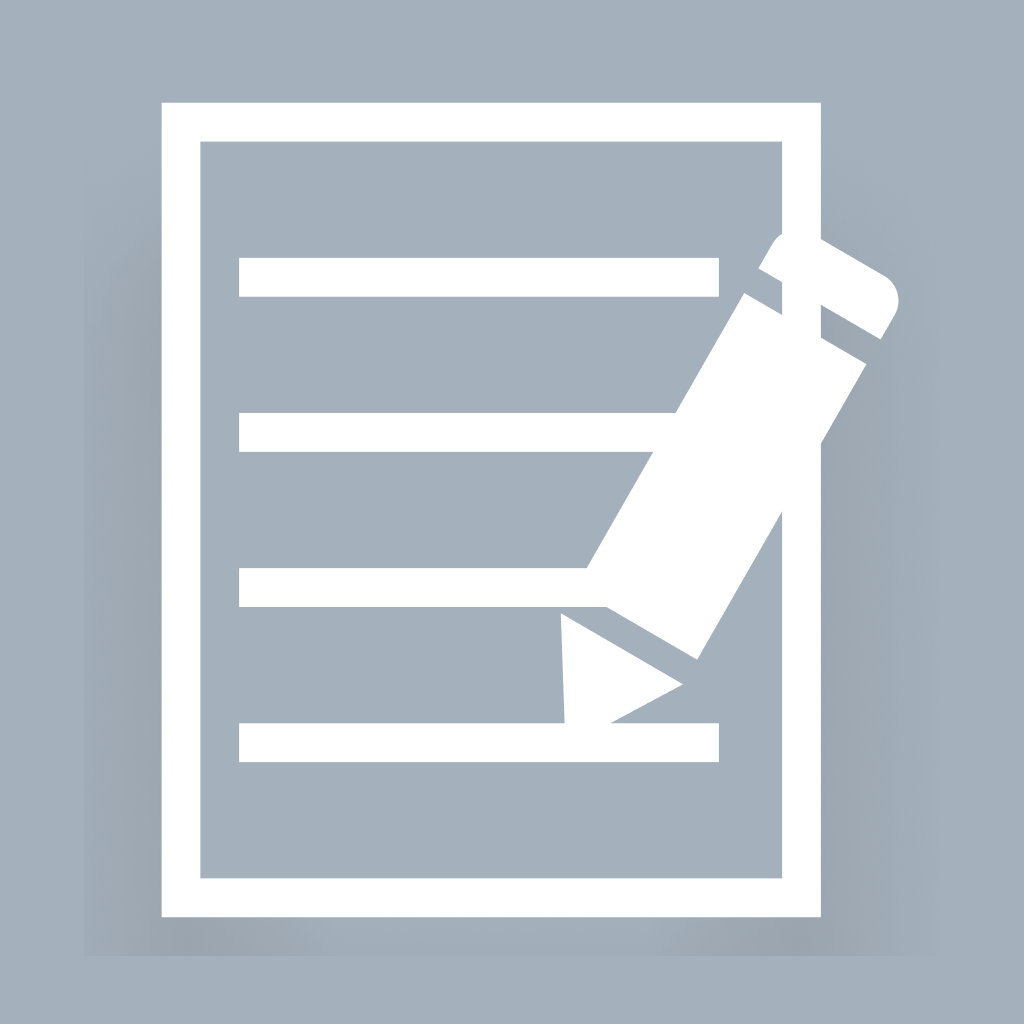
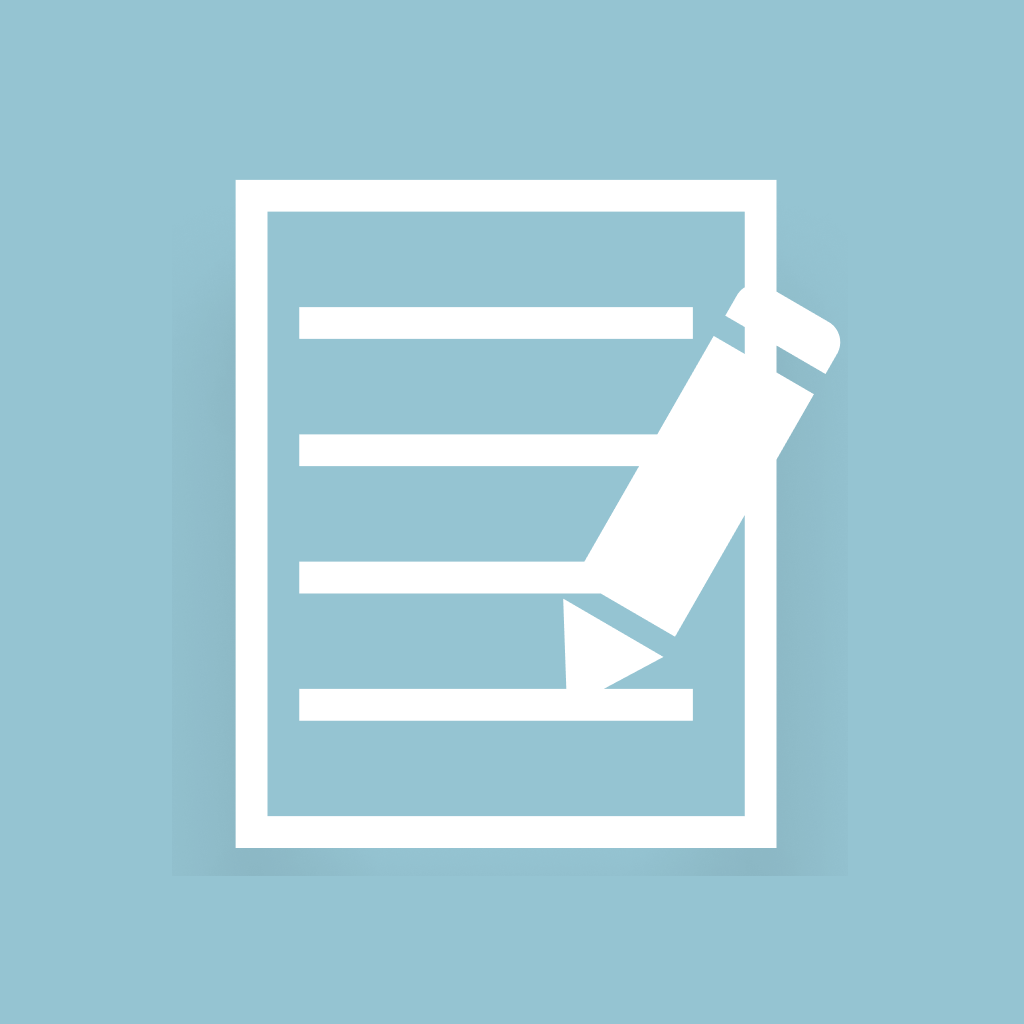
Initial Commmit

diff --git a/src/screens/MemoListScreen.jsx b/src/screens/MemoListScreen.jsx
@@ -9,6 +9,7 @@ import CircleButton from '../components/CircleButton';
 import SquareButton from '../components/SquareBotton';
 import Loading from '../components/Loading';
 import HeaderRightButton from '../components/HeaderRightButton';
+import HeaderLeftButton from '../components/HeaderLeftButton';
 
 export default function MemoListScreen(props) {
   const { navigation } = props;
@@ -44,6 +45,9 @@ export default function MemoListScreen(props) {
         navigation.setOptions({
           headerRight: () => (
             <HeaderRightButton currentUser={user} cleanupFuncs={cleanupFuncs} />
+          ),
+          headerLeft: () => (
+            <HeaderLeftButton currentUser={user} />
           ),
         });
       } else {
@@ -112,36 +116,3 @@ const emptyStyles = StyleSheet.create({
     alignSelf: 'center',
   },
 });
-
-//   // const { currentUser } = firebase.auth();
-//   const db = firebase.firestore();
-//   let unsubscribe = () => {};
-//   if (currentUser) {
-//     setLoading(true);
-//     const ref = db.collection(`users/${currentUser.uid}/memos`).orderBy('updatedAt', 'desc');
-//     // Monitor memos
-//     unsubscribe = ref.onSnapshot((snapshot) => {
-//       const userMemos = [];
-//       snapshot.forEach((doc) => {
-//         const data = doc.data();
-//         userMemos.push({
-//           id: doc.id,
-//           bodyText: data.bodyText,
-//           updatedAt: data.updatedAt.toDate(),
-//         });
-//       });
-//       setMemos(userMemos);
-//       setLoading(false);
-//     }, () => {
-//       // console.log('aaaa');
-//       // Alert.alert('Fail to load data.');
-//       setLoading(false);
-//     });
-//   }
-//   return unsubscribe;
-// }, []);
-// useEffect(() => {
-//   navigation.setOptions({
-//     headerRight: () => <LogOutButton />,
-//   });
-// }, []);

diff --git a/src/components/HeaderLeftButton.jsx b/src/components/HeaderLeftButton.jsx
@@ -1,0 +1,48 @@
+import React from 'react';
+import {
+  TouchableOpacity, Text, StyleSheet, Alert,
+} from 'react-native';
+import { shape } from 'prop-types';
+
+export default function HeaderLeftButton(props) {
+  const { currentUser } = props;
+  if (!currentUser) { return null; }
+  if (currentUser.isAnonymous) {
+    return null;
+  }
+  const firstChar = currentUser.email.slice(0, 1).toUpperCase();
+  const handlePress = () => {
+    Alert.alert('Your Account', currentUser.email, [
+      {
+        text: 'OK',
+        onPress: () => {},
+      },
+    ]);
+  };
+  return (
+    <TouchableOpacity style={styles.container} onPress={handlePress}>
+      <Text style={styles.label}>{firstChar}</Text>
+    </TouchableOpacity>
+  );
+}
+
+HeaderLeftButton.propTypes = {
+  currentUser: shape().isRequired,
+};
+
+const styles = StyleSheet.create({
+  container: {
+    backgroundColor: '#467FD3',
+    borderRadius: 16,
+    width: 32,
+    height: 32,
+    marginLeft: 15,
+    marginBottom: 2,
+    justifyContent: 'center',
+    alignItems: 'center',
+  },
+  label: {
+    fontSize: 14,
+    color: 'rgba(255, 255, 255, 0.7)',
+  },
+});

diff --git a/src/components/UserCheck.jsx b/src/components/UserCheck.jsx
@@ -1,0 +1,45 @@
+import React from 'react';
+import {
+  View, Text, StyleSheet,
+} from 'react-native';
+import { shape } from 'prop-types';
+
+export default function UserCheck(props) {
+  const { currentUser } = props;
+  if (!currentUser) { return null; }
+  if (currentUser.isAnonymous) {
+    return null;
+  }
+  return (
+    <View style={styles.container}>
+      <Text style={styles.label}>
+        {currentUser.email}
+      </Text>
+    </View>
+  );
+}
+
+UserCheck.propTypes = {
+  currentUser: shape().isRequired,
+};
+
+const styles = StyleSheet.create({
+  container: {
+    position: 'absolute',
+    width: '100%',
+    height: '100%',
+    top: 0,
+    right: 0,
+    bottom: 0,
+    left: 0,
+    justifyContent: 'center',
+    alignContent: 'center',
+    backgroundColor: 'red',
+    // backgroundColor: 'rgba(255, 255, 255, 0.5)',
+    zIndex: 100,
+  },
+  label: {
+    fontSize: 14,
+    color: '#000000',
+  },
+});

diff --git a/src/screens/LogInScreen.jsx b/src/screens/LogInScreen.jsx
@@ -19,17 +19,6 @@ export default function LogInScreen(props) {
     navigation.setOptions({
       headerRight: () => <CancelLogIn />,
     });
-    // const unsubscribe = firebase.auth().onAuthStateChanged((user) => {
-    //   if (user) {
-    //     navigation.reset({
-    //       index: 0,
-    //       routes: [{ name: 'MemoList' }],
-    //     });
-    //   } else {
-    //     setLoading(false);
-    //   }
-    // });
-    // return unsubscribe;
   }, []);
 
   const handlePress = () => {
@@ -131,6 +120,6 @@ const styles = StyleSheet.create({
   footterLink: {
     fontSize: 14,
     lineHeight: 24,
-    color: '#467FD3',
+    color: '#95C4D2',
   },
 });

diff --git a/src/screens/MemoDetailScreen.jsx b/src/screens/MemoDetailScreen.jsx
@@ -28,7 +28,6 @@ export default function MemoDetailScreen(props) {
           updatedAt: data.updatedAt.toDate(),
         });
       }, () => {
-        console.log('bbbb');
         Alert.alert('Fail to load data.');
       });
     }
@@ -71,7 +70,7 @@ const styles = StyleSheet.create({
     backgroundColor: '#ffffff',
   },
   memoHeader: {
-    backgroundColor: '#467FD3',
+    backgroundColor: '#95C4D2',
     height: 96,
     justifyContent: 'center',
     alignItems: 'flex-start',

diff --git a/App.jsx b/App.jsx
@@ -27,7 +27,7 @@ export default function App() {
       <Stack.Navigator
         initialRouteName="MemoList"
         screenOptions={{
-          headerStyle: { backgroundColor: '#467FD3' },
+          headerStyle: { backgroundColor: '#95C4D2' },
           headerTiteStyle: { color: '#ffffff' },
           headerTitle: 'Lock Note',
           headerTintColor: '#ffffff',

diff --git a/src/components/SquareBotton.jsx b/src/components/SquareBotton.jsx
@@ -24,7 +24,7 @@ SquareButton.defaultProps = {
 
 const styles = StyleSheet.create({
   buttonContainer: {
-    backgroundColor: '#467FD3',
+    backgroundColor: '#95C4D2',
     borderRadius: 4,
     alignSelf: 'flex-start',
     marginBottom: 24,

diff --git a/src/components/CircleButton.jsx b/src/components/CircleButton.jsx
@@ -26,7 +26,7 @@ CircleButton.defaultProps = {
 
 const styles = StyleSheet.create({
   circleButton: {
-    backgroundColor: '#467FD3',
+    backgroundColor: '#95C4D2',
     width: 64,
     height: 64,
     borderRadius: 32,

diff --git a/src/screens/SignUpScreen.jsx b/src/screens/SignUpScreen.jsx
@@ -129,6 +129,6 @@ const styles = StyleSheet.create({
   footterLink: {
     fontSize: 14,
     lineHeight: 24,
-    color: '#467FD3',
+    color: '#95C4D2',
   },
 });
